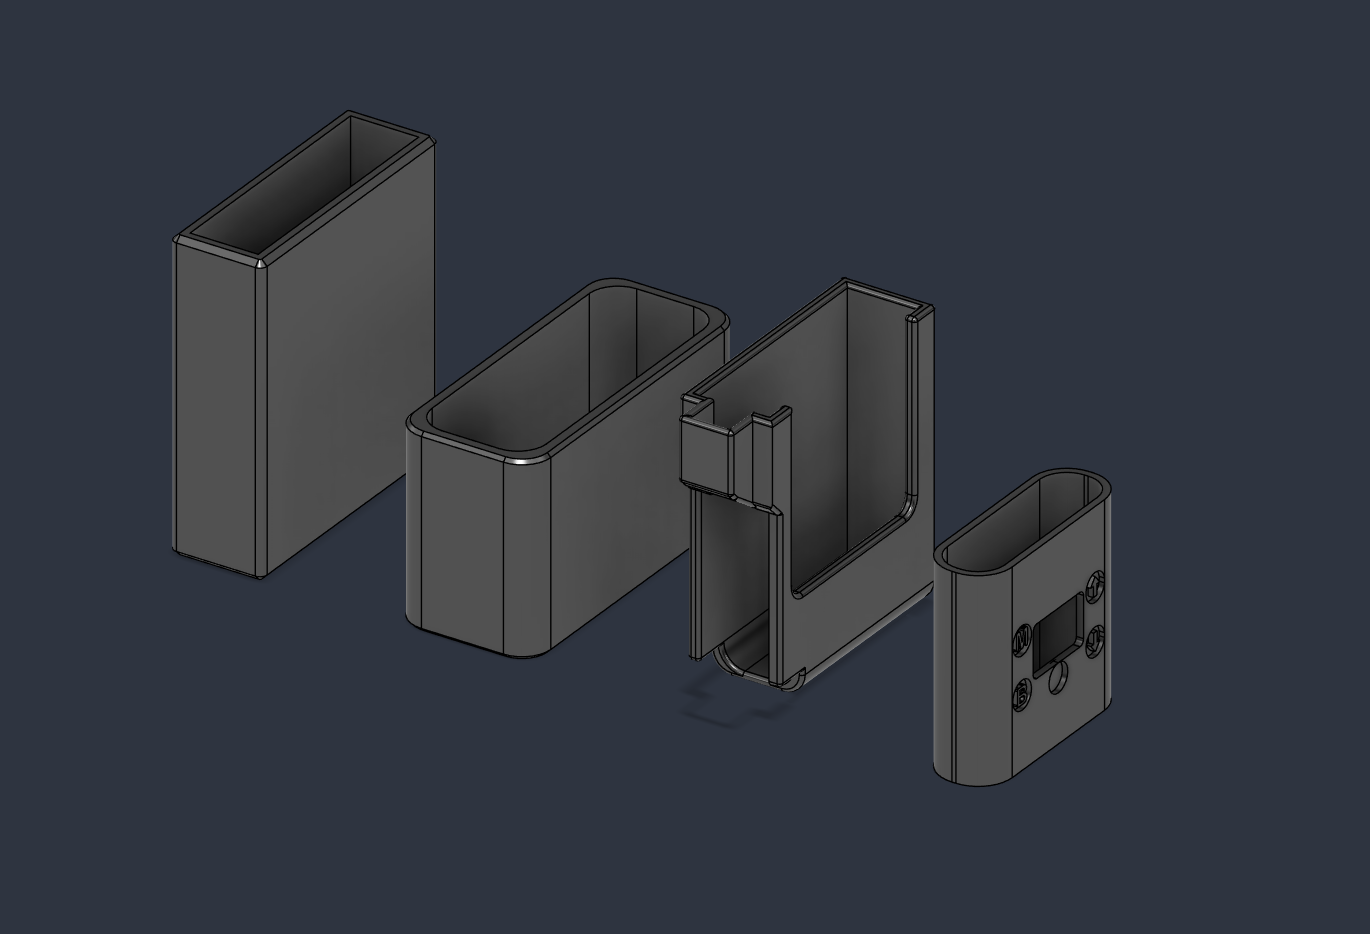
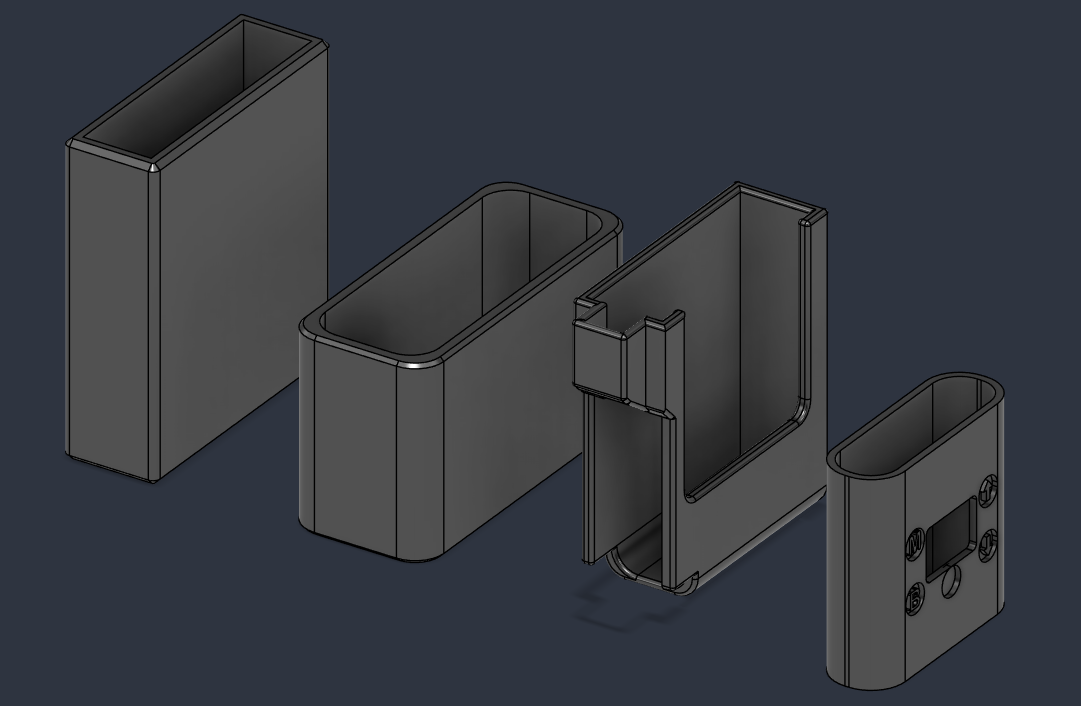
add au images

diff --git a/_site/_projects/audio_cases/index.html b/_site/_projects/audio_cases/index.html
@@ -67,7 +67,7 @@
        
         
                
-        <img src="/_projects/audio_cases/assembly.png" alt="Audio Equipment Cases image">
+        <img src="/_projects/audio_cases/au_1.jpg" alt="Audio Equipment Cases image">
         
         <div class="title-header">
             <h1>Audio Equipment Cases</h1>
@@ -99,7 +99,7 @@
         <h2 id="the-cases">The Cases</h2>
 <hr />
 
-<div class="image-gallery" style="--gallery-height: 400px;">
+<div class="image-gallery" style="--gallery-height: 300px;">
   
       
       
@@ -117,7 +117,7 @@ side of the case was designed to slide “around” protruding ports.</p>
 
 <h2><br /></h2>
 
-<div class="image-gallery" style="--gallery-height: 400px;">
+<div class="image-gallery" style="--gallery-height: 300px;">
   
       
       
@@ -140,7 +140,69 @@ with calipers, worked out tolerances, and modelled the case in CAD. After a coup
 would reach a final design, each of which the technician was extremely satisfied with, he then would
 order the required quantity, and I would 3D Print the final products.</p>
 
-<p>I was paid to design and produce different cases for increasingly more 
+<div class="image-gallery" style="--gallery-height: 300px;">
+  
+      
+      
+          
+          <img src="/_projects/audio_cases/assembly.png" alt="assembly.png" loading="lazy" onerror="this.onerror=null;this.src=this.src.replace('.webp','.png').replace('.png','.webp');" />
+      
+  
+</div>
+
+<p><br /></p>
+<h2 id="outcome">Outcome</h2>
+<hr />
+<p>Here I have inlcuded some images of my products in use on the set:</p>
+
+<div class="image-gallery" style="--gallery-height: 400px;">
+  
+      
+      
+          
+          <img src="/_projects/audio_cases/au_1.jpg" alt="au_1.jpg" loading="lazy" onerror="this.onerror=null;this.src=this.src.replace('.webp','.png').replace('.png','.webp');" />
+      
+  
+      
+      
+          
+          <img src="/_projects/audio_cases/au_2.jpg" alt="au_2.jpg" loading="lazy" onerror="this.onerror=null;this.src=this.src.replace('.webp','.png').replace('.png','.webp');" />
+      
+  
+      
+      
+          
+          <img src="/_projects/audio_cases/au_3.jpg" alt="au_3.jpg" loading="lazy" onerror="this.onerror=null;this.src=this.src.replace('.webp','.png').replace('.png','.webp');" />
+      
+  
+</div>
+<p><br /></p>
+
+<div class="image-gallery" style="--gallery-height: 330px;">
+  
+      
+      
+          
+          <img src="/_projects/audio_cases/au_4.jpg" alt="au_4.jpg" loading="lazy" onerror="this.onerror=null;this.src=this.src.replace('.webp','.png').replace('.png','.webp');" />
+      
+  
+      
+      
+          
+          <img src="/_projects/audio_cases/au_5.jpg" alt="au_5.jpg" loading="lazy" onerror="this.onerror=null;this.src=this.src.replace('.webp','.png').replace('.png','.webp');" />
+      
+  
+      
+      
+          
+          <img src="/_projects/audio_cases/au_6.jpg" alt="au_6.jpg" loading="lazy" onerror="this.onerror=null;this.src=this.src.replace('.webp','.png').replace('.png','.webp');" />
+      
+  
+</div>
+<p><br />
+The sound technician continues to use these cases, allowing him to work efficiently and protect his assets.
+<br /><br />
+I was paid to design and produce different cases for increasingly more 
 complex equipment. I believe that this experience is extremely relevant to the engineering sector: 
 consulting with a client, understanding their requirements, before presenting a unique solution and
 working with them to finalise it.</p>

diff --git a/_site/projects/audio_cases/index/index.html b/_site/projects/audio_cases/index/index.html
@@ -67,7 +67,7 @@
        
         
                
-        <img src="/_projects/audio_cases/assembly.png" alt="Audio Equipment Cases image">
+        <img src="/_projects/audio_cases/au_1.jpg" alt="Audio Equipment Cases image">
         
         <div class="title-header">
             <h1>Audio Equipment Cases</h1>
@@ -99,7 +99,7 @@
         <h2 id="the-cases">The Cases</h2>
 <hr />
 
-<div class="image-gallery" style="--gallery-height: 400px;">
+<div class="image-gallery" style="--gallery-height: 300px;">
   
       
       
@@ -117,7 +117,7 @@ side of the case was designed to slide “around” protruding ports.</p>
 
 <h2><br /></h2>
 
-<div class="image-gallery" style="--gallery-height: 400px;">
+<div class="image-gallery" style="--gallery-height: 300px;">
   
       
       
@@ -140,7 +140,69 @@ with calipers, worked out tolerances, and modelled the case in CAD. After a coup
 would reach a final design, each of which the technician was extremely satisfied with, he then would
 order the required quantity, and I would 3D Print the final products.</p>
 
-<p>I was paid to design and produce different cases for increasingly more 
+<div class="image-gallery" style="--gallery-height: 300px;">
+  
+      
+      
+          
+          <img src="/projects/audio_cases//assembly.png" alt="assembly.png" loading="lazy" onerror="this.onerror=null;this.src=this.src.replace('.webp','.png').replace('.png','.webp');" />
+      
+  
+</div>
+
+<p><br /></p>
+<h2 id="outcome">Outcome</h2>
+<hr />
+<p>Here I have inlcuded some images of my products in use on the set:</p>
+
+<div class="image-gallery" style="--gallery-height: 400px;">
+  
+      
+      
+          
+          <img src="/projects/audio_cases//au_1.jpg" alt="au_1.jpg" loading="lazy" onerror="this.onerror=null;this.src=this.src.replace('.webp','.png').replace('.png','.webp');" />
+      
+  
+      
+      
+          
+          <img src="/projects/audio_cases//au_2.jpg" alt="au_2.jpg" loading="lazy" onerror="this.onerror=null;this.src=this.src.replace('.webp','.png').replace('.png','.webp');" />
+      
+  
+      
+      
+          
+          <img src="/projects/audio_cases//au_3.jpg" alt="au_3.jpg" loading="lazy" onerror="this.onerror=null;this.src=this.src.replace('.webp','.png').replace('.png','.webp');" />
+      
+  
+</div>
+<p><br /></p>
+
+<div class="image-gallery" style="--gallery-height: 330px;">
+  
+      
+      
+          
+          <img src="/projects/audio_cases//au_4.jpg" alt="au_4.jpg" loading="lazy" onerror="this.onerror=null;this.src=this.src.replace('.webp','.png').replace('.png','.webp');" />
+      
+  
+      
+      
+          
+          <img src="/projects/audio_cases//au_5.jpg" alt="au_5.jpg" loading="lazy" onerror="this.onerror=null;this.src=this.src.replace('.webp','.png').replace('.png','.webp');" />
+      
+  
+      
+      
+          
+          <img src="/projects/audio_cases//au_6.jpg" alt="au_6.jpg" loading="lazy" onerror="this.onerror=null;this.src=this.src.replace('.webp','.png').replace('.png','.webp');" />
+      
+  
+</div>
+<p><br />
+The sound technician continues to use these cases, allowing him to work efficiently and protect his assets.
+<br /><br />
+I was paid to design and produce different cases for increasingly more 
 complex equipment. I believe that this experience is extremely relevant to the engineering sector: 
 consulting with a client, understanding their requirements, before presenting a unique solution and
 working with them to finalise it.</p>

diff --git a/_site/index.html b/_site/index.html
@@ -141,7 +141,7 @@
         <div class="project-card">
             
             
-            <img src="/_projects/audio_cases/assembly.png" alt="Audio Equipment Cases image">
+            <img src="/_projects/audio_cases/au_1.jpg" alt="Audio Equipment Cases image">
             <h3 class="project-title">Audio Equipment Cases</h3>
             <div class="project-skills">
                 

diff --git a/_site/projects/index.html b/_site/projects/index.html
@@ -71,7 +71,7 @@
         <div class="project-card">
             
             
-            <img src="/_projects/audio_cases/assembly.png" alt="Audio Equipment Cases image">
+            <img src="/_projects/audio_cases/au_1.jpg" alt="Audio Equipment Cases image">
             <h3 class="project-title">Audio Equipment Cases</h3>
             <div class="project-skills">
                 

diff --git a/_projects/audio_cases/index.md b/_projects/audio_cases/index.md
@@ -10,11 +10,11 @@ skills:
 - Client Consultation
 - Tolerance Analysis
 - Material Selection
-main-image: /assembly.png
+main-image: /au_1.jpg
 ---
 ## The Cases
 ---
-{% include image-gallery.html images="part1.png" height="400" %}
+{% include image-gallery.html images="part1.png" height="300" %}
 <br>
 This part was designed as a sort of “holster” - it would be attached inside a bag in order to 
 secure the devices for easy access and secure storage.
@@ -24,7 +24,7 @@ side of the case was designed to slide "around" protruding ports.
 
 <br>
 ---
-{% include image-gallery.html images="part2.png" height="400" %}  
+{% include image-gallery.html images="part2.png" height="300" %}  
 <br>
 This part was a protective case that was printed with flexible material which reduced the risk of
 damage from drops, and still allowed the buttons to be operated.
@@ -38,7 +38,18 @@ Each time I was commissioned to design a case, I sketched my idea with the clien
 with calipers, worked out tolerances, and modelled the case in CAD. After a couple of prototypes, I
 would reach a final design, each of which the technician was extremely satisfied with, he then would
 order the required quantity, and I would 3D Print the final products.
+{% include image-gallery.html images="assembly.png" height="300" %}
 
+<br>
+## Outcome
+---
+Here I have inlcuded some images of my products in use on the set:
+{% include image-gallery.html images="au_1.jpg, au_2.jpg, au_3.jpg" height="400" %}
+<br>
+{% include image-gallery.html images="au_4.jpg, au_5.jpg, au_6.jpg" height="330" %}
+<br>
+The sound technician continues to use these cases, allowing him to work efficiently and protect his assets.
+<br><br>
 I was paid to design and produce different cases for increasingly more 
 complex equipment. I believe that this experience is extremely relevant to the engineering sector: 
 consulting with a client, understanding their requirements, before presenting a unique solution and
